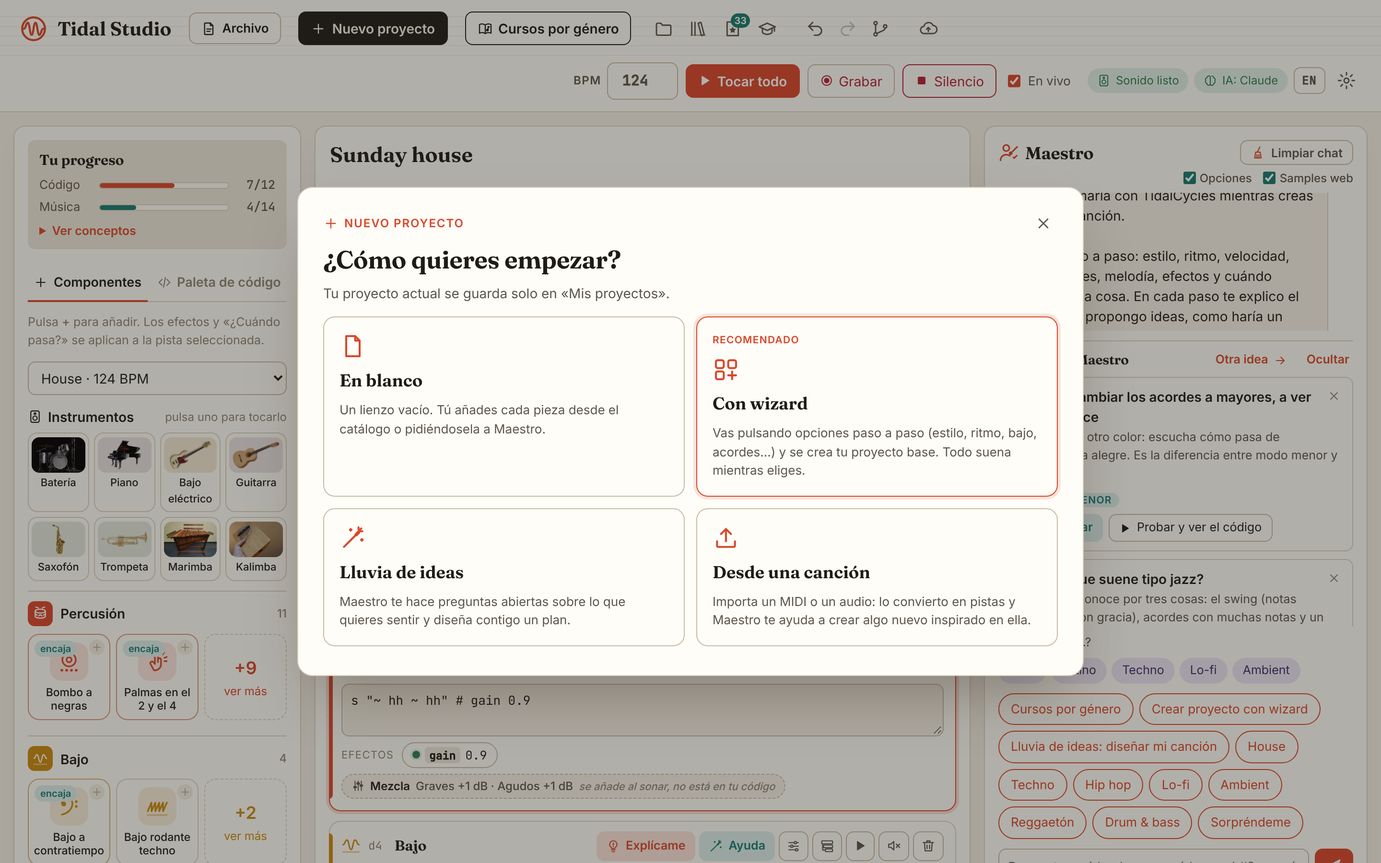
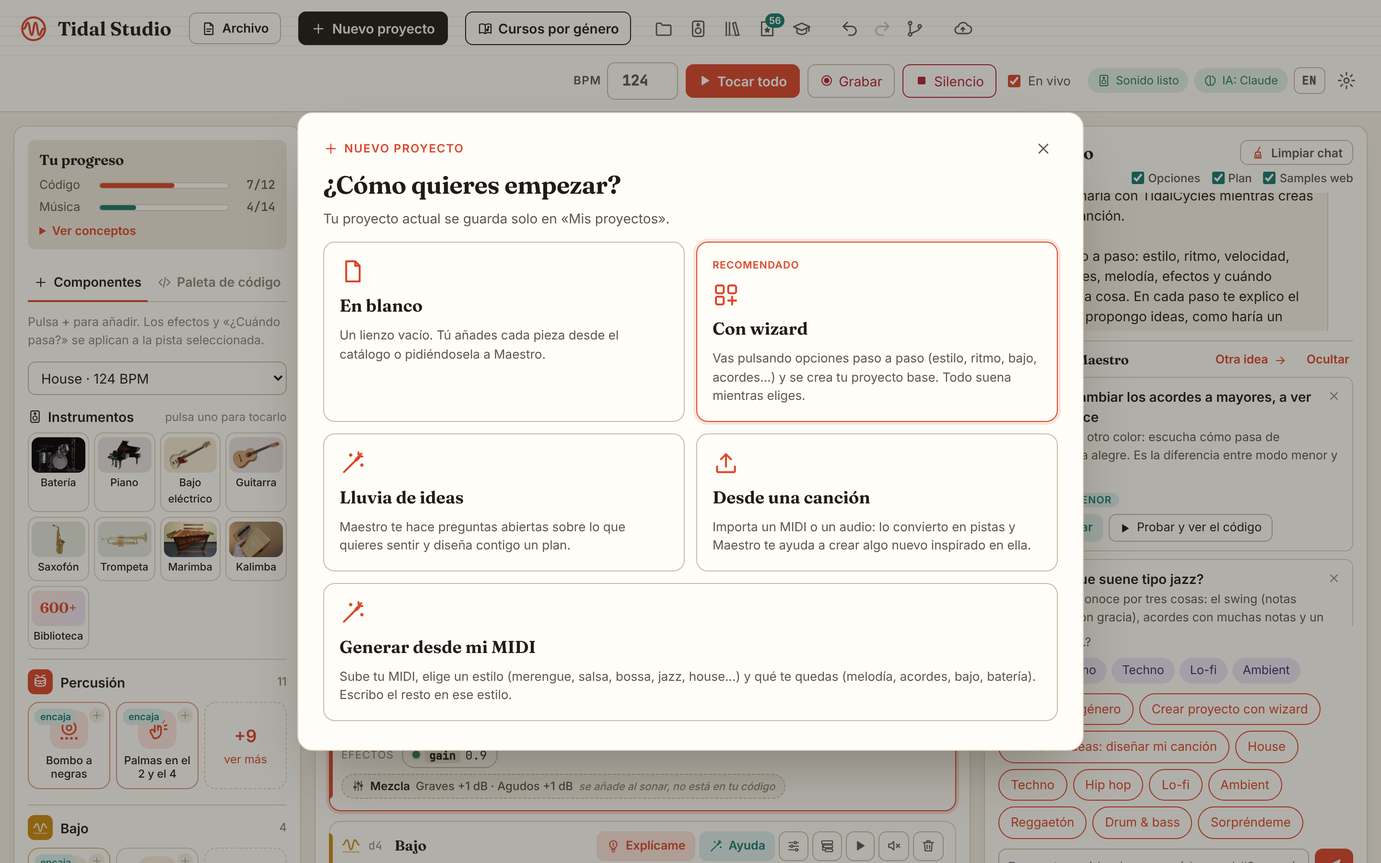
Sync site with main (0.10.0: tabs, plan mode, real drummer)

diff --git a/index.html b/index.html
@@ -269,10 +269,11 @@ footer { padding: 40px 0; text-align: center; color: var(--ink-3); font-size: 14
       <div><svg class="i" viewBox="0 0 24 24"><path d="M4 9v6h3l4 3V6L7 9z"/><path d="M15 9.5a3.5 3.5 0 010 5M17.5 7a7 7 0 010 10"/></svg><h4 data-i="f13h">Hear options, pick one</h4><p data-i="f13p">Ask Maestro for something and it offers 3 or 4 different takes. Listen to each one live over your song, switch A/B, and keep the one you like.</p></div>
       <div><svg class="i" viewBox="0 0 24 24"><path d="M3 4v16"/><path d="M3 20h18" opacity=".45"/><rect x="5.5" y="5" width="4" height="3" rx="1" fill="currentColor" stroke="none"/><rect x="12.5" y="5" width="4" height="3" rx="1" fill="currentColor" stroke="none"/><rect x="8" y="10.5" width="7" height="3" rx="1" fill="currentColor" stroke="none"/><rect x="16" y="10.5" width="3" height="3" rx="1" fill="currentColor" stroke="none"/><path d="M14.5 3v15"/></svg><h4 data-i="f14h">Timeline</h4><p data-i="f14p">See where every hit falls, bar by bar and beat by beat, instead of decoding "how often". TidalCycles itself calculates it, and a line follows the music.</p></div>
       <div><svg class="i" viewBox="0 0 24 24"><path d="M8 7l-5 5 5 5"/><rect x="11" y="9" width="10" height="6" rx="1.5"/><path d="M8 12h3"/></svg><h4 data-i="f15h">Every hit points to its code</h4><p data-i="f15p">Hover a hit and the piece of code that makes it lights up. Hover the code and all its hits light up.</p></div>
+      <div><svg class="i" viewBox="0 0 24 24"><rect x="3" y="4" width="7" height="7" rx="1.5"/><path d="M5 7.5l1.3 1.3L8.5 6.5"/><path d="M13 7.5h8M13 17.5h8"/><rect x="3" y="14" width="7" height="7" rx="1.5"/></svg><h4 data-i="f20h">A plan, step by step</h4><p data-i="f20p">Ask for a whole song and Maestro first shows you a plan, like a brainstorm with a producer. Approve or change it, and it builds the song step by step, saving each one: if the AI takes too long, nothing is lost.</p></div>
       <div><svg class="i" viewBox="0 0 24 24"><path d="M7 18a4.5 4.5 0 01-.5-9 6 6 0 0111.4-1.2A4.6 4.6 0 0117.5 18z"/><path d="M12 10.5v5.5M9.8 13.8L12 16l2.2-2.2"/></svg><h4 data-i="f16h">Maestro fetches the sounds</h4><p data-i="f16p">If your song needs a sound you don't have, like a real cowbell or a vinyl crackle, Maestro finds a free-licensed one online, downloads it, credits it and plays it. It asks before big packs.</p></div>
       <div><svg class="i" viewBox="0 0 24 24"><path d="M17 2.5l3 3-3 3"/><path d="M4 11.5v-2a4 4 0 014-4h12"/><path d="M7 21.5l-3-3 3-3"/><path d="M20 12.5v2a4 4 0 01-4 4H4"/></svg><h4 data-i="f17h">A library for long loops</h4><p data-i="f17p">Drop downloaded loops, folders or a zip: the studio detects tempo, bars, key and hits, and writes the code so they play at your tempo, with variations instead of repeating.</p></div>
       <div><svg class="i" viewBox="0 0 24 24"><rect x="3" y="4" width="7" height="7" rx="1.5"/><rect x="14" y="4" width="7" height="7" rx="1.5"/><rect x="3" y="14" width="7" height="7" rx="1.5"/><path d="M17.5 14v7M14 17.5h7"/></svg><h4 data-i="f19h">600+ instruments</h4><p data-i="f19p">A harpsichord, a pizzicato double bass, a Steinway, a sitar… Browse by category with real photos, hear each one before downloading, add your own SoundFonts, and pin your favourites to the studio.</p></div>
-      <div><svg class="i" viewBox="0 0 24 24"><path d="M6 3h9l4 4v14H6z"/><path d="M15 3v4h4"/><path d="M12 10v7M9 14l3 3 3-3"/></svg><h4 data-i="f18h">Open and save Tidal files</h4><p data-i="f18p">A File menu opens any .tidal or .hs file from anywhere on your computer and turns it into tracks; Save writes a clean .tidal that plays in any Tidal editor.</p></div>
+      <div><svg class="i" viewBox="0 0 24 24"><path d="M6 3h9l4 4v14H6z"/><path d="M15 3v4h4"/><path d="M12 10v7M9 14l3 3 3-3"/></svg><h4 data-i="f18h">Open Tidal files in tabs</h4><p data-i="f18p">Open any .tidal or .hs from your disk or a song from GitHub, each in its own tab, and close them when you are done; Save writes a clean .tidal that plays in any Tidal editor.</p></div>
     </div>
   </div>
 </section>
@@ -306,7 +307,7 @@ footer { padding: 40px 0; text-align: center; color: var(--ink-3); font-size: 14
   <div class="wrap">
     <div class="kicker" data-i="kc">Genre courses</div>
     <h2 class="sec-title" data-i="tc">Build a merengue from scratch.</h2>
-    <p class="sec-lead" data-i="lc">Eleven courses, one genre each: merengue, salsa, cumbia, reggaeton, bossa nova, jazz, funk, house, techno, drum &amp; bass and lo-fi. Like a production class: the signature rhythm first, then bass, harmony, melody, arrangement and mix. Every step adds a piece that already sounds good, and Maestro explains why it sounds like that style. The Latin courses follow the Latin style skills of your composition plugin, name the tradition they play and use real instruments: güiro, congas, bongos, upright bass, trombones, accordion, nylon guitar…</p>
+    <p class="sec-lead" data-i="lc">Eleven courses, one genre each: merengue, salsa, cumbia, reggaeton, bossa nova, jazz, funk, house, techno, drum &amp; bass and lo-fi. Like a production class: the signature rhythm first, then bass, harmony, melody, arrangement and mix. Every step adds a piece that already sounds good, and Maestro explains why it sounds like that style. The Latin courses follow the Latin style skills of your composition plugin, name the tradition they play and use real instruments: güiro, congas, bongos, upright bass, trombones, accordion, nylon guitar… Nine courses also let you hear a real drummer play the style (MIDI from Google Magenta's Groove MIDI Dataset), with the strength and timing of every hit kept in the code.</p>
     <div class="frame reveal"><div class="bar"><i></i><i></i><i></i><span>localhost:8765</span></div><img id="course-img" alt="" width="3000" height="1880"></div>
     <div class="styles"><span>Merengue</span><span>Salsa</span><span>Cumbia</span><span>Reggaeton</span><span>Bossa nova</span><span>Jazz</span><span>Funk</span><span>House</span><span>Techno</span><span>Drum &amp; bass</span><span>Lo-fi</span></div>
   </div>
@@ -318,6 +319,15 @@ footer { padding: 40px 0; text-align: center; color: var(--ink-3); font-size: 14
     <h2 class="sec-title" data-i="ti">Start from a song you love. End with one of your own.</h2>
     <p class="sec-lead" data-i="li">Drop in a MIDI file, or an mp3 or wav (its instruments are separated with MSST or Demucs), and it becomes Tidal tracks plus its recipe: tempo, key, chords, structure and groove. Then Maestro helps you write something new inspired by it, keeping what works and changing the rest. Everything stays on your computer.</p>
     <div class="frame reveal"><div class="bar"><i></i><i></i><i></i><span>localhost:8765</span></div><img id="import-img" alt="" width="2880" height="1800"></div>
+  </div>
+</section>
+
+<section id="midi-generate" style="padding-top: 20px">
+  <div class="wrap">
+    <div class="kicker" data-i="kg">Generate from your MIDI</div>
+    <h2 class="sec-title" data-i="tg">Your melody, as merengue. Or bossa, or house.</h2>
+    <p class="sec-lead" data-i="lg">Upload a MIDI of yours, pick one of eleven styles and what to keep: melody, chords, bass, drums or tempo. The studio writes the rest in that style over your chords, without AI: the course's drums, a bass and accompaniment with rhythms measured in real songs, and a new call-and-response melody if you don't keep yours. Every track says where it comes from, and Maestro can turn it into a whole song.</p>
+    <div class="frame reveal"><div class="bar"><i></i><i></i><i></i><span>localhost:8765</span></div><img id="gen-img" alt="" width="2880" height="1800"></div>
   </div>
 </section>
 
@@ -340,9 +350,10 @@ n "&lt;c'min7 f'min7&gt;" # s "superpiano"</code></div>
 <section id="novedades" style="padding-top: 20px">
   <div class="wrap">
     <div class="kicker" data-i="kn">What's new</div>
-    <h2 class="sec-title" data-i="tn">Version 0.9.1 is out.</h2>
+    <h2 class="sec-title" data-i="tn">Version 0.10.0 is out.</h2>
     <p class="sec-lead" data-i="ln">A new version every few days, each with its installers for Mac, Windows and Linux.</p>
     <ul class="vers reveal">
+      <li><b>0.10.0</b><span data-i="v10">Maestro shows a plan for big requests and builds it step by step, so a timeout no longer loses work, with a Cancel button; generate a new song from your MIDI in 11 styles; several songs open in tabs, from your disk or GitHub; a real drummer in nine genre courses; better audio import with MSST; and Maestro sees the sounds you just downloaded.</span></li>
       <li><b>0.9.1</b><span data-i="v91">Maestro loads mc-tidal-studio, the skills route of your composition plugin made for this app, with every message.</span></li>
       <li><b>0.9.0</b><span data-i="v9">600+ instruments with photos and pre-listen, your own SoundFonts, new synth engines, Latin courses played by real instruments, and plugins that update themselves.</span></li>
       <li><b>0.8.0</b><span data-i="v8">Long loops library: drop loops, folders or a zip, and the studio detects tempo, bars, key and hits and writes code that fits your song.</span></li>
@@ -363,8 +374,8 @@ n "&lt;c'min7 f'min7&gt;" # s "superpiano"</code></div>
     <div class="step solo reveal" style="margin-bottom:40px">
       <h4 data-i="mach">Mac, Windows and Linux: one installer, everything inside</h4>
       <p data-i="macp">TidalCycles, SuperCollider, the sounds and Python are all in the package, so nothing is downloaded while installing. It opens as a real Mac app, in its own window and with no Terminal. The first time, macOS asks you to allow it in System Settings → Privacy &amp; Security → Open Anyway.</p>
-      <a class="btn primary" href="https://github.com/vsalesa/tidal-studio/releases/download/v0.9.1/TidalStudio-0.9.1-macOS-AppleSilicon.pkg"><svg class="i" viewBox="0 0 24 24"><path d="M12 4v11M7 10l5 5 5-5M5 20h14"/></svg><span data-i="macb">Download for Mac (.pkg)</span></a>
-      <p style="margin-top:14px"><a class="btn ghost" href="https://github.com/vsalesa/tidal-studio/releases/download/v0.9.1/TidalStudio-0.9.1-Windows-x64-Setup.exe"><span data-i="winb">Windows installer (.exe)</span></a> <a class="btn ghost" href="https://github.com/vsalesa/tidal-studio/releases/download/v0.9.1/tidal-studio_0.9.1_amd64.deb"><span data-i="linb">Linux package (.deb)</span></a></p>
+      <a class="btn primary" href="https://github.com/vsalesa/tidal-studio/releases/download/v0.10.0/TidalStudio-0.10.0-macOS-AppleSilicon.pkg"><svg class="i" viewBox="0 0 24 24"><path d="M12 4v11M7 10l5 5 5-5M5 20h14"/></svg><span data-i="macb">Download for Mac (.pkg)</span></a>
+      <p style="margin-top:14px"><a class="btn ghost" href="https://github.com/vsalesa/tidal-studio/releases/download/v0.10.0/TidalStudio-0.10.0-Windows-x64-Setup.exe"><span data-i="winb">Windows installer (.exe)</span></a> <a class="btn ghost" href="https://github.com/vsalesa/tidal-studio/releases/download/v0.10.0/tidal-studio_0.10.0_amd64.deb"><span data-i="linb">Linux package (.deb)</span></a></p>
       <p style="margin-top:10px;font-size:.9em" data-i="maco">Windows and Linux have their own installers too, each opening the studio in its own window. Intel Mac, or prefer the source? Follow the three steps below.</p>
       <p style="margin-top:4px;font-size:.9em"><a href="https://github.com/vsalesa/tidal-studio/releases/latest" data-i="allv">All versions</a></p>
     </div>
@@ -441,9 +452,11 @@ const ES = {
   f15h: "Cada golpe apunta a su código", f15p: "Pasa el ratón por un golpe y se ilumina el trozo de código que lo produce. Pásalo por el código y se iluminan todos sus golpes.",
   f17h: "Biblioteca de loops largos", f17p: "Suelta loops descargados, carpetas o un zip: el estudio detecta tempo, compases, tonalidad y golpes, y escribe el código para que suenen a tu tempo, con variaciones en vez de repetirse.",
   f19h: "Más de 600 instrumentos", f19p: "Un clavecín, un contrabajo en pizzicato, un Steinway, un sitar… Explora por categorías con fotos reales, escucha cada uno antes de descargarlo, añade tus SoundFonts y fija tus favoritos en el estudio.",
+  f20h: "Un plan, paso a paso", f20p: "Pide una canción entera y Maestro primero te enseña un plan, como una lluvia de ideas con un productor. Apruébalo o cámbialo y construye la canción paso a paso, guardando cada uno: si la IA tarda demasiado, no se pierde nada.",
   f16h: "Maestro consigue los sonidos", f16p: "Si a tu canción le falta un sonido que no tienes, como un cencerro de verdad o crujido de vinilo, Maestro busca uno con licencia libre en internet, lo descarga, apunta los créditos y lo hace sonar. Antes de bajar paquetes grandes te pregunta.",
-  f18h: "Abrir y guardar archivos de Tidal", f18p: "Un menú Archivo abre cualquier .tidal o .hs de tu ordenador y lo convierte en pistas; Guardar escribe un .tidal limpio que suena en cualquier editor de Tidal.",
-  nav5: "Novedades", kn: "Novedades", tn: "Ya está aquí la versión 0.9.1.", ln: "Una versión nueva cada pocos días, cada una con sus instaladores para Mac, Windows y Linux.",
+  f18h: "Archivos de Tidal en pestañas", f18p: "Abre cualquier .tidal o .hs de tu disco o una canción de GitHub, cada uno en su pestaña, y ciérralos al terminar; Guardar escribe un .tidal limpio que suena en cualquier editor de Tidal.",
+  nav5: "Novedades", kn: "Novedades", tn: "Ya está aquí la versión 0.10.0.", ln: "Una versión nueva cada pocos días, cada una con sus instaladores para Mac, Windows y Linux.",
+  v10: "En las peticiones grandes Maestro te enseña un plan y lo construye paso a paso, así un timeout ya no pierde trabajo, con un botón Cancelar; genera una canción nueva desde tu MIDI en 11 estilos; varias canciones abiertas en pestañas, desde tu disco o GitHub; un baterista real en nueve cursos; mejor importación de audio con MSST; y Maestro ve los sonidos que acabas de descargar.",
   v91: "Maestro carga en cada mensaje mc-tidal-studio, la ruta de skills de tu plugin de composición hecha para esta app.",
   v9: "Más de 600 instrumentos con fotos y escucha previa, tus propios SoundFonts, motores de synth nuevos, cursos latinos tocados con instrumentos reales y plugins que se actualizan solos.",
   v8: "Biblioteca de loops largos: arrastra loops, carpetas o un zip, y el estudio detecta tempo, compases, tonalidad y golpes y escribe el código que encaja con tu canción.",
@@ -457,8 +470,10 @@ const ES = {
   l2: "Pulsa opciones y escucha el resultado en vivo. Las que encajan con tu estilo vienen marcadas, y el último paso te enseña todo el código explicado.",
   k3: "Así se ve", t3: "Un estudio claro, como una partitura.",
   kc: "Cursos por género", tc: "Construye un merengue desde cero.",
-  lc: "Once cursos, un género cada uno: merengue, salsa, cumbia, reggaeton, bossa nova, jazz, funk, house, techno, drum & bass y lo-fi. Como una clase de producción: primero el ritmo característico, luego bajo, armonía, melodía, arreglo y mezcla. Cada paso añade una pieza que ya suena bien, y Maestro te explica por qué suena a ese estilo. Los cursos latinos siguen las skills de estilos latinos de tu plugin de composición, dicen qué tradición tocan y usan instrumentos reales: güiro, congas, bongós, contrabajo, trombones, acordeón, guitarra de nailon…",
+  lc: "Once cursos, un género cada uno: merengue, salsa, cumbia, reggaeton, bossa nova, jazz, funk, house, techno, drum & bass y lo-fi. Como una clase de producción: primero el ritmo característico, luego bajo, armonía, melodía, arreglo y mezcla. Cada paso añade una pieza que ya suena bien, y Maestro te explica por qué suena a ese estilo. Los cursos latinos siguen las skills de estilos latinos de tu plugin de composición, dicen qué tradición tocan y usan instrumentos reales: güiro, congas, bongós, contrabajo, trombones, acordeón, guitarra de nailon… Nueve cursos además te dejan escuchar a un baterista real tocando el estilo (MIDI del Groove MIDI Dataset de Google Magenta), con la fuerza y el tiempo de cada golpe en el código.",
   ki: "Importar canción", ti: "Empieza con una canción que te encanta. Termina con una tuya.",
+  kg: "Genera desde tu MIDI", tg: "Tu melodía, en merengue. O en bossa, o en house.",
+  lg: "Sube un MIDI tuyo, elige uno de once estilos y qué te quedas: melodía, acordes, bajo, batería o tempo. El estudio escribe el resto en ese estilo sobre tus acordes, sin IA: la batería del curso, un bajo y un acompañamiento con ritmos medidos en canciones reales, y una melodía nueva de pregunta y respuesta si no te quedas la tuya. Cada pista dice de dónde sale, y Maestro puede convertirla en una canción entera.",
   li: "Suelta un MIDI, o un mp3 o wav (sus instrumentos se separan con MSST o Demucs), y se convierte en pistas de Tidal y en su receta: tempo, tonalidad, acordes, estructura y groove. Luego Maestro te ayuda a escribir algo nuevo inspirado en ella, conservando lo que funciona y cambiando el resto. Todo se queda en tu ordenador.",
   k4: "Recetas de estilo", t4: "«¿Quieres que suene tipo jazz?»",
   l4: "Pulsa un estilo y tu canción se transforma. Verás el antes y el después con lo nuevo resaltado, y una explicación de cada cambio para que mañana lo hagas tú.",
@@ -562,6 +577,8 @@ wzList.addEventListener("click", (e) => { const b = e.target.closest("button"); 
 
 // ---------- Galería ----------
 const SHOTS = [
+  { en: ["Generate from my MIDI", "midi-generate-style", "Pick a style and what to keep from your MIDI: melody, chords, bass, drums or tempo."], es: ["Generar desde mi MIDI", "midi-generar-estilo", "Elige un estilo y qué te quedas de tu MIDI: melodía, acordes, bajo, batería o tempo."] },
+  { en: ["Plan step by step", "plan-running", "Ask for a whole song: Maestro shows a plan, you approve it, and it builds the song step by step, saving each step."], es: ["Plan paso a paso", "plan-en-marcha", "Pide una canción entera: Maestro te enseña un plan, lo apruebas y construye la canción paso a paso, guardando cada paso."] },
   { en: ["Instrument library", "instlib-browse", "634 specific instruments by category, with real photos. Press one to hear the real recordings, then add it as a track."], es: ["Biblioteca de instrumentos", "biblioteca-instrumentos", "634 instrumentos concretos por categorías, con fotos reales. Pulsa uno para oír sus grabaciones y añádelo como pista."] },
   { en: ["Your instruments", "instlib-import", "Drop a SoundFont, an SFZ in a zip or your own recordings: they play with notes like the rest."], es: ["Tus instrumentos", "biblioteca-importar", "Suelta un SoundFont, un SFZ en un zip o tus grabaciones: se tocan con notas como los demás."] },
   { en: ["Synth engines", "instlib-engines", "Install Mi-UGens, sc3-plugins and VSTPlugin (Surge XT, Vital) with one button."], es: ["Motores de synth", "biblioteca-motores", "Instala Mi-UGens, sc3-plugins y VSTPlugin (Surge XT, Vital) con un botón."] },
@@ -571,6 +588,7 @@ const SHOTS = [
   { en: ["Long loops", "loops-loader", "Drop a zip of loops: each one is analysed (tempo, bars, key, type) and tells you how it fits your song's tempo."], es: ["Loops largos", "loops-cargador", "Suelta un zip de loops: cada uno se analiza (tempo, compases, tonalidad, tipo) y te dice cómo encaja con el tempo de tu canción."] },
   { en: ["Loop variations", "loops-variations", "Slices coloured by kick, snare and hats, and variations with splice so the loop never repeats exactly."], es: ["Variaciones de un loop", "loops-variaciones", "Trozos coloreados por bombo, caja y platos, y variaciones con splice para que el loop nunca se repita igual."] },
   { en: ["Internet samples", "web-samples", "Maestro asked for a cowbell and a vinyl crackle: it found them with free licenses, downloaded them and they're already playing. Listen, try another, see the license."], es: ["Samples de internet", "samples-web", "Maestro pidió un cencerro y crujido de vinilo: los encontró con licencia libre, los descargó y ya suenan. Escúchalos, prueba otro, mira la licencia."] },
+  { en: ["Songs in tabs", "tabs", "Several songs open at once, each in its own tab: projects, files from your disk and songs from GitHub. A dot marks unsaved changes."], es: ["Canciones en pestañas", "pestanas", "Varias canciones abiertas a la vez, cada una en su pestaña: proyectos, archivos de tu disco y canciones de GitHub. Un punto marca los cambios sin guardar."] },
   { en: ["Open and save files", "file-menu", "The File menu: open any .tidal or .hs, recent files, save and save as, and import a song."], es: ["Abrir y guardar archivos", "archivo-menu", "El menú Archivo: abre cualquier .tidal o .hs, archivos recientes, guardar y guardar como, e importar una canción."] },
   { en: ["Effects on/off", "effects-toggle-tracks", "Switch any effect off to hear the difference: it keeps its value, so switching it back on restores it."], es: ["Efectos on/off", "efectos-pistas", "Apaga cualquier efecto para oír la diferencia: guarda su valor, así que al encenderlo vuelve tal cual."] },
   { en: ["The studio", "studio", "Your tracks with their code, «Explain» on each one and Maestro's ideas with pre-listen."], es: ["El estudio", "estudio", "Tus pistas con su código, «Explícame» en cada una y las ideas del maestro con pre-escucha."] },
@@ -642,8 +660,9 @@ function applyLang() {
 }
 langBtn.onclick = () => { lang = lang === "es" ? "en" : "es"; try { localStorage.setItem("ts-site-lang", lang); } catch {} applyLang(); };
 applyLang();
+{ const gi = document.getElementById("gen-img"); gi.src = shotPath(lang === "es" ? "midi-generar-resultado" : "midi-generate-result"); gi.alt = lang === "es" ? "Tu MIDI en bossa nova: pistas de tu MIDI, del estilo y nuevas" : "Your MIDI as bossa nova: tracks from your MIDI, the style and new ones"; }
 { const ii = document.getElementById("import-img"); ii.src = shotPath(lang === "es" ? "importar-resultado" : "import-result"); ii.alt = lang === "es" ? "Canción importada: receta y pistas de Tidal" : "Imported song: recipe and Tidal tracks"; }
-{ const ci = document.getElementById("course-img"); ci.src = shotPath(lang === "es" ? "curso-skill-paso" : "course-skill-step"); ci.alt = lang === "es" ? "Curso de salsa: cada paso con la regla de la skill y con instrumentos reales" : "Salsa course: each step with the skill's rule and real instruments"; }
+{ const ci = document.getElementById("course-img"); ci.src = shotPath(lang === "es" ? "curso-baterista-real" : "course-real-drummer"); ci.alt = lang === "es" ? "Curso de merengue: escucha a un baterista real tocando el estilo" : "Merengue course: hear a real drummer play the style"; }
 [...SHOTS, ...WZ].forEach((s) => { const p = new Image(); p.src = shotPath((lang === "es" ? s.es : s.en)[1]); });
 
 // ---------- Onda decorativa y aparición ----------

diff --git a/screenshot-tool/scenes.js b/screenshot-tool/scenes.js
@@ -106,6 +106,35 @@ const scenes = {
     await page.click('#btn-new'); await page.waitForTimeout(700);
     await shot(page, T(lang, 'nuevo-proyecto', 'new-project'), lang);
   },
+  // Generar desde mi MIDI: examples/little-tune.mid (python3 tools/make_example_midi.py)
+  async 'midi-generate'(b, lang) {
+    const MID = require('path').join(__dirname, '..', '..', 'examples', 'little-tune.mid');
+    const { page } = await open(b, { lang, state: sunday(lang) });
+    await page.click('#btn-file'); await page.waitForTimeout(300);
+    await page.click('#file-pop [data-f="generate"]'); await page.waitForTimeout(500);
+    await shot(page, T(lang, 'midi-generar-subir', 'midi-generate-upload'), lang);
+    await page.setInputFiles('#np-body .imp-drop input', MID); await page.waitForSelector('.gen-styles'); await page.waitForTimeout(400);
+    await page.click('.gen-styles [data-style="bossa"]'); await page.waitForTimeout(300);
+    await shot(page, T(lang, 'midi-generar-estilo', 'midi-generate-style'), lang);
+    await page.click('.wz-nav [data-a="go"]'); await page.waitForSelector('.gen-tracks'); await page.waitForTimeout(500);
+    await page.evaluate(() => { const l = document.querySelector('.gen-tracks'); l.scrollTop = l.scrollHeight; });
+    await shot(page, T(lang, 'midi-generar-resultado', 'midi-generate-result'), lang);
+    await page.click('.wz-nav [data-a="use"]'); await page.waitForTimeout(1800);
+    await shot(page, T(lang, 'midi-generar-estudio', 'midi-generate-studio'), lang);
+  },
+  async 'midi-generate-course'(b, lang) {
+    const MID = require('path').join(__dirname, '..', '..', 'examples', 'little-tune.mid');
+    const st = sunday(lang, { tracks: [], name: 'Merengue', course: { id: 'merengue', i: 1, done: [0],
+      mine: { name: 'little-tune', bpm: 110, key: 'C', chords: ['C', 'Am', 'F', 'G'], instruments: ['Melody', 'Piano', 'Bass', 'Kick', 'Snare & claps', 'Hats & cymbals'], tracks: [], reference: '' } } });
+    const { page } = await open(b, { lang, state: st, wait: 1800 });
+    await page.evaluate(() => document.querySelector('.cs-mine-box')?.scrollIntoView({ block: 'center' }));
+    await page.waitForTimeout(400);
+    await shot(page, T(lang, 'midi-generar-curso', 'midi-generate-course'), lang);
+    await page.click('[data-mine="gen"]'); await page.waitForTimeout(500);
+    await page.setInputFiles('#np-body .imp-drop input', MID); await page.waitForSelector('.gen-styles'); await page.waitForTimeout(400);
+    await page.click('.wz-nav [data-a="go"]'); await page.waitForSelector('.gen-tracks'); await page.waitForTimeout(500);
+    await shot(page, T(lang, 'midi-generar-merengue', 'midi-generate-merengue'), lang);
+  },
   async wizard(b, lang) {
     const { page } = await open(b, { lang, state: sunday(lang) });
     await page.click('#btn-new'); await page.waitForTimeout(400);
@@ -260,6 +289,63 @@ const scenes = {
     await page.evaluate(() => { document.querySelector('#chat .msg.assistant:last-child details.decisions')?.removeAttribute('open'); const t = document.querySelector('#chat .msg.assistant:last-child details.trace'); if (t) { t.open = true; t.scrollIntoView({ block: 'start' }); } window.scrollTo(0, 0); });
     await page.waitForTimeout(500);
     await shot(page, T(lang, 'razonamiento', 'reasoning'), lang);
+  },
+
+  // Plan por pasos: Maestro presenta un plan, lo aprobamos y lo hace paso a paso; el paso 3 tarda demasiado
+  // (timeout) y se reintenta sin perder los dos primeros
+  async plan(b, lang) {
+    const P = {
+      titulo: T(lang, 'Noche de salsa', 'Salsa night'),
+      resumen: T(lang, 'Construimos una salsa como lo haría una orquesta: primero la clave y la percusión, luego el bajo tumbao, el montuno de piano y las trompetas encima.',
+        'We build a salsa song the way a band would: clave and percussion first, then the tumbao bass, the piano montuno and the trumpets on top.'),
+      pasos: [
+        { titulo: T(lang, 'Clave y percusión', 'Clave and percussion'), que: T(lang, 'Clave de son 3-2 con congas: el corazón de la salsa.', 'Son clave 3-2 with congas: the heartbeat of salsa.'), aspecto: 'ritmo', pistas: ['d1', 'd2'] },
+        { titulo: T(lang, 'Bajo tumbao', 'Tumbao bass'), que: T(lang, 'El bajo se adelanta al cambio de acorde: el empuje típico de la salsa.', 'The bass anticipates the chord change, the classic salsa push.'), aspecto: 'bajo', pistas: ['d3'] },
+        { titulo: T(lang, 'Montuno de piano', 'Piano montuno'), que: T(lang, 'Un patrón sincopado de piano que se repite sobre Am - D7.', 'A repeating syncopated piano pattern over Am - D7.'), aspecto: 'armonia', pistas: ['d4'] },
+        { titulo: T(lang, 'Mambo de trompetas', 'Trumpet mambo'), que: T(lang, 'Golpes cortos de trompeta que responden al piano (pregunta y respuesta).', 'Short trumpet stabs answering the piano (call and response).'), aspecto: 'melodia', pistas: ['d5'] },
+        { titulo: T(lang, 'Arreglo: intro y mambo', 'Arrangement: intro and mambo'), que: T(lang, 'Con mask, las trompetas entran a los 8 compases.', 'Mask so the trumpets come in after 8 bars.'), aspecto: 'estructura', pistas: ['d5'] }],
+    };
+    const STEPS = [
+      { mensaje: T(lang, 'Paso 1 hecho: clave de son 3-2 y congas. Fíjate en cómo la clave se repite cada compás.', 'Step 1 done: the 3-2 son clave plus congas. Listen to how the clave repeats every bar.'), cambios: { bpm: 96, pistas: [
+        { id: 'd1', nombre: 'Clave', tipo: 'percusion', codigo: 's "rm(5,16,2)" # gain 1' }, { id: 'd2', nombre: 'Congas', tipo: 'percusion', codigo: 's "~ lt ~ [mt lt]" # gain 0.9' }] },
+      explicacion: [{ fragmento: 'rm(5,16,2)', explicacion: T(lang, '5 golpes repartidos en 16 pasos: suena a clave.', '5 hits spread over 16 steps: a clave feel.') }] },
+      { mensaje: T(lang, 'Paso 2 hecho: el bajo tumbao cae justo antes del primer tiempo.', 'Step 2 done: the tumbao bass lands just before the downbeat.'), cambios: { pistas: [
+        { id: 'd3', nombre: 'Tumbao', tipo: 'bajo', codigo: 'n "~ ~ ~ a2 ~ ~ e2 ~" # s "superfm" # lpf 900' }] },
+      explicacion: [{ fragmento: '~ ~ ~ a2', explicacion: T(lang, 'El bajo espera y empuja: eso es el tumbao.', "The bass waits, then pushes: that's the tumbao.") }] },
+    ];
+    let failed = false;
+    const reply = (body) => {
+      const ps = body.session && body.session.plan_paso;
+      if (!ps) return { __delay: 500, body: { mensaje: T(lang, 'Este es mi plan para tu salsa. ¿Te parece bien o quieres cambiar algo?', "Here's my plan for your salsa. Does it look right, or do you want to change something?"), plan: P, skills: SK(lang) } };
+      if (ps.i === 2 && !failed) { failed = true; return { __delay: 4000, __status: 504, body: { error: T(lang, 'La IA tardó demasiado en responder', 'The AI took too long to answer'), timeout: true, plan_paso: true } }; }
+      return { __delay: 900, body: STEPS[ps.i] || { mensaje: 'ok' } };
+    };
+    const { page } = await open(b, { lang, state: { bpm: 120, tracks: [], chat: [], options: [], ideas: [], offline: false, step: 'libre' }, routes: { '/api/chat': reply } });
+    await page.fill('#chat-input', T(lang, 'Hazme una canción de salsa entera, con piano, bajo y trompetas', 'Make me a whole salsa song with piano, bass and trumpets')); await page.press('#chat-input', 'Enter');
+    await page.waitForSelector('.plan.propuesto'); await page.waitForTimeout(600);
+    await page.evaluate(() => { document.querySelector('#chat .msg.user:last-of-type')?.scrollIntoView({ block: 'start' }); window.scrollTo(0, 0); });
+    await shot(page, T(lang, 'plan-propuesto', 'plan-proposed'), lang);
+    await page.click('[data-pl="start"]');
+    await page.waitForSelector('.pl-step.haciendo >> nth=0'); await page.waitForFunction(() => document.querySelectorAll('.plan .pl-step.hecho').length === 2);
+    await page.waitForTimeout(1200);
+    await shot(page, T(lang, 'plan-en-marcha', 'plan-running'), lang);
+    await page.waitForSelector('.pl-step.error'); await page.waitForTimeout(500);
+    await page.evaluate(() => { document.querySelector('#chat .plan').scrollIntoView({ block: 'start' }); document.querySelector('#chat').scrollTop -= 70; window.scrollTo(0, 0); });
+    await page.waitForTimeout(300);
+    await shot(page, T(lang, 'plan-reintentar', 'plan-retry'), lang);
+  },
+
+  // Cancelar lo enviado: mientras Maestro piensa, «Cancelar» en el mensaje y el botón de enviar hecho cuadrado
+  async cancel(b, lang) {
+    const st = sunday(lang);
+    const { page, ctx } = await open(b, { lang, state: st, routes: { '/api/chat': () => ({ __delay: 20000, body: { mensaje: 'late' } }), '/api/trace': () => ({ events: [
+      { kind: 'step', text: T(lang, 'Leo tu mensaje y tu canción: 5 pistas, 124 bpm', 'Reading your message and your song: 5 tracks, 124 bpm'), t: 0.1 },
+      { kind: 'step', text: T(lang, 'Elijo skills entre 54: mc-tidal-studio · siempre, mc-style-house', 'Picking skills out of 54: mc-tidal-studio · always, mc-style-house'), t: 0.2 },
+      { kind: 'step', text: T(lang, 'Pregunto a Claude (tu suscripción)…', 'Asking Claude (your subscription)…'), t: 0.3 }], done: false, seconds: 14 }) } });
+    await page.fill('#chat-input', T(lang, 'Rehaz toda la canción en estilo drum & bass', 'Redo the whole song as drum & bass')); await page.press('#chat-input', 'Enter');
+    await page.waitForSelector('.chat-cancel'); await page.waitForTimeout(1500);
+    await shot(page, T(lang, 'chat-cancelar', 'chat-cancel'), lang);
+    await ctx.close();
   },
 
   async settings(b, lang) {

diff --git a/screenshot-tool/tabs.js b/screenshot-tool/tabs.js
@@ -1,0 +1,47 @@
+const { chromium, open, shot, sunday, T } = require('./lib.js');
+(async () => {
+  const b = await chromium.launch();
+  const lang = process.env.L || 'en';
+  const s1 = sunday(lang);
+  const lofi = { ...sunday(lang), projectId: 'p-lofi', name: 'Lofi study', bpm: 82, style: 'lofi', tracks: sunday(lang).tracks.slice(0, 3) };
+  const projects = [{ id: 'p-sunday', name: s1.name, updated: Date.now(), data: s1 }, { id: 'p-lofi', name: 'Lofi study', updated: Date.now() - 1000, data: lofi }];
+  const SONGS = process.env.SONGS || '/tmp/claude-0/home/Music'; // night-drive.tidal + rain-loops.tidal
+  let dialogPath = SONGS + '/night-drive.tidal';
+  const { page } = await open(b, { lang, state: s1, local: { 'tidal-studio-projects-v1': projects, 'tidal-studio-tabs-v1': { ids: ['p-sunday', 'p-lofi'], active: 0 } },
+    routes: { '/api/file/dialog': () => ({ path: dialogPath }) } });
+  const tabsTxt = () => page.$$eval('.doc-tab', (xs) => xs.map((x) => (x.classList.contains('active') ? '*' : '') + x.textContent.trim() + (x.classList.contains('dirty') ? '(dirty)' : '')));
+  const name = () => page.$eval('#proj-name', (x) => x.value);
+  const ntracks = () => page.$$eval('#tracks .track', (x) => x.length);
+  console.log('start', await tabsTxt(), await name());
+  await page.click('.doc-tab[data-i="1"]'); await page.waitForTimeout(400);
+  console.log('switch', await tabsTxt(), await name(), await ntracks());
+  await page.keyboard.press('Control+o'); await page.waitForTimeout(800);
+  console.log('open file', await tabsTxt(), await name(), await ntracks());
+  await page.click('.doc-tab[data-i="0"]'); await page.waitForTimeout(300);
+  await page.keyboard.press('Control+o'); await page.waitForTimeout(800);
+  console.log('reopen same', await tabsTxt());
+  dialogPath = SONGS + '/rain-loops.tidal';
+  await page.keyboard.press('Control+o'); await page.waitForTimeout(800);
+  await page.fill('#bpm', '90'); await page.$eval('#bpm', (x) => x.dispatchEvent(new Event('change'))); await page.waitForTimeout(300);
+  console.log('dirty', await tabsTxt());
+  await page.click('.doc-tab[data-i="0"]'); await page.waitForTimeout(500); console.log('front', await tabsTxt());
+  if (process.env.OUT) await shot(page, 'tabs', lang);
+  await page.click('#btn-file'); await page.waitForTimeout(300);
+  if (process.env.OUT) await shot(page, 'tabs-file-menu', lang);
+  await page.mouse.click(700, 600); await page.waitForTimeout(200);
+  const dirtyIdx = await page.$$eval('.doc-tab', (xs) => xs.findIndex((x) => x.classList.contains('dirty')));
+  await page.hover(`.doc-tab[data-i="${dirtyIdx}"]`);
+  await page.click(`.doc-tab[data-i="${dirtyIdx}"] .dt-close`); await page.waitForTimeout(500);
+  console.log('ask open?', await page.$eval('#askdlg', (d) => d.open && d.querySelector('h2').textContent));
+  if (process.env.OUT) await shot(page, 'tabs-close-ask', lang);
+  await page.click('#askdlg button[data-k="discard"]'); await page.waitForTimeout(500);
+  console.log('after close', await tabsTxt(), await name());
+  await page.reload(); await page.waitForTimeout(1200);
+  console.log('reload', await tabsTxt(), await name());
+  for (let i = 0; i < 6; i++) {
+    await page.click('.doc-tab.active .dt-close', { force: true }); await page.waitForTimeout(300);
+    if (await page.$eval('#askdlg', (d) => d.open)) await page.click('#askdlg button[data-k="discard"]');
+  }
+  console.log('closed all', await tabsTxt(), await name());
+  await b.close();
+})();

diff --git a/screenshot-tool/lib.js b/screenshot-tool/lib.js
@@ -36,7 +36,7 @@ async function open(browser, { lang = 'en', state = null, local = {}, routes = {
       const r = await fn(body, route.request());
       if (r === undefined) return route.continue();
       if (r && r.__delay) await new Promise((ok) => setTimeout(ok, r.__delay));
-      await route.fulfill({ status: 200, contentType: 'application/json', body: JSON.stringify(r && r.__delay ? r.body : r) });
+      await route.fulfill({ status: (r && r.__status) || 200, contentType: 'application/json', body: JSON.stringify(r && r.__delay ? r.body : r) });
     });
   }
   await page.goto(BASE + path);

diff --git a/COURSES.md b/COURSES.md
@@ -31,6 +31,47 @@ style skills of the [music-composition plugin](https://github.com/vsalesa/music-
   varied answer; the reggaeton has a dembow fill, a short sub, chopped vocals and a subtractive break; the bossa follows
   the odd/even bar chord rule and plans a density drop.
 
+## Real drummer examples (0.10)
+
+Nine courses carry a `ref`: one performance from the [Groove MIDI Dataset](https://magenta.tensorflow.org/datasets/groove)
+(Google Magenta, CC BY 4.0), real drummers recorded on an electronic kit. `server/references.py` downloads the dataset's
+MIDI pack once, takes the bars the course names and writes one Tidal track per part of the kit (kick, snare and rim,
+hi-hats, toms and cymbals, on d9 to d12). Each hit keeps its velocity as `gain` and its distance from the grid as `nudge`
+(seconds, with the shared offset of the recording removed). Swing is written on a 12-step triplet grid. `sounds` swaps
+kit pieces for the course's instruments (merengue: wood block and congas for the tambora; reggaeton: an 808 kick) and
+`slow` stretches the songo bar over two salsa bars.
+
+| Course | Example | What it teaches |
+|---|---|---|
+| Merengue | Dominican merengue, 130 BPM | the tambora on a kit: rim on the 4th, 7th and 11th sixteenth, a tom roll into the next bar |
+| Salsa | Cuban songo, 112 BPM | a kick that anticipates like the tumbao, ghost notes around the rim |
+| Reggaeton | Reggaeton, 90 BPM | off-beat hi-hat accents and a dembow about 15 ms ahead of the grid |
+| Bossa nova | Bossa nova, 127 BPM | surdo kick, rim clave that changes every bar, everything soft |
+| Jazz | Swing, 124 BPM | triplet ride feel, hi-hat foot on 2 and 4 |
+| Funk | Funk, 102 BPM | ghost notes between the backbeats, open hats on the last sixteenth |
+| House | Disco, 120 BPM | the four-on-the-floor drummers that house machines copied |
+| Drum & bass | Breakbeat, 170 BPM | a whole break played before you chop one |
+| Lo-fi | Hip hop, 86 BPM | a fixed backbeat with the kick and the timing moving around it |
+
+Cumbia and techno have no example: the dataset has no cumbia or techno, and no openly licensed MIDI for them was found.
+What the reggaeton drummer does (hi-hats loud on the «and», dembow early) was measured over all 32 bars and copied into
+the course's own dembow step. All 32 example tracks were compiled and queried with tidal-core 1.10.0.
+
+## Style profiles learned from real songs (0.10)
+
+`tools/learn_style.py GENRE files-or-folders` measures MIDI songs on a 16-step grid and writes one profile per genre to
+`server/data/style_profiles.json`: per role (bass, keys, guitar, brass, sax) the % of bars with a hit on each sixteenth
+and the three most common rhythms, the chord degree the bass plays at each common step, every General MIDI percussion
+instrument's pattern, and the most repeated four-chord progressions. Maestro gets the profile of the course's genre.
+
+| Genre | Songs | What the data said | Change to the course |
+|---|---|---|---|
+| Merengue | 3 | bass on 1, «and» of 2, 3, 4, «and» of 4 (root, fifth, approach); piano on every eighth (over 90%) with sixteenth pickups, 1.6 notes per hit; low conga on the «and» of 2 and 4 (over 70%) | bass, piano and tambora rewritten |
+| Salsa | 7 | bass anticipates: «and» of 2 and beat 4; i–iv–V–i is the most repeated progression | none, the tumbao already matched |
+| Cumbia | 9 | bass on 1, 3 and 4; güiro on three of every four sixteenths | none, already matched |
+| Bossa nova | 12 | bass on 1, «and» of 2, 3, «and» of 4 (dotted quarter + eighth) | none, already matched |
+| Reggaeton | 1 drummer | off-beat hi-hat accents, dembow about 15 ms early | hi-hats and snare timing |
+
 ## How the code was checked
 
 - Every track in every course (70 tracks) was compiled and evaluated with the real TidalCycles

diff --git a/screenshot-tool/README.md b/screenshot-tool/README.md
@@ -27,5 +27,6 @@ OUT=../screenshots node scenes.js studio mixer     # just some scenes
   started with a clean environment: `HOME` pointing to a folder with `.claude/settings.json` and `fake-claude` copied
   to `~/.local/bin/claude`, `provider: "claudecode"` in its `config.json`, then `BASE=http://127.0.0.1:<port> node scenes.js settings`.
 - Paths of the temporary folders are replaced with `~` before each shot.
+- `tabs.js` checks the tabs (open from disk, switch, close with unsaved changes, reload) and takes `tabs*.png`: put two `.tidal` files in `$SONGS`, then `OUT=../screenshots node tabs.js` (`L=es` for Spanish, then rename to `pestanas*.png`).
 - The Timeline, long loops, files, import, web samples and Maestro options screenshots were taken with their own
   scenes when those features shipped and are not in this script yet.
